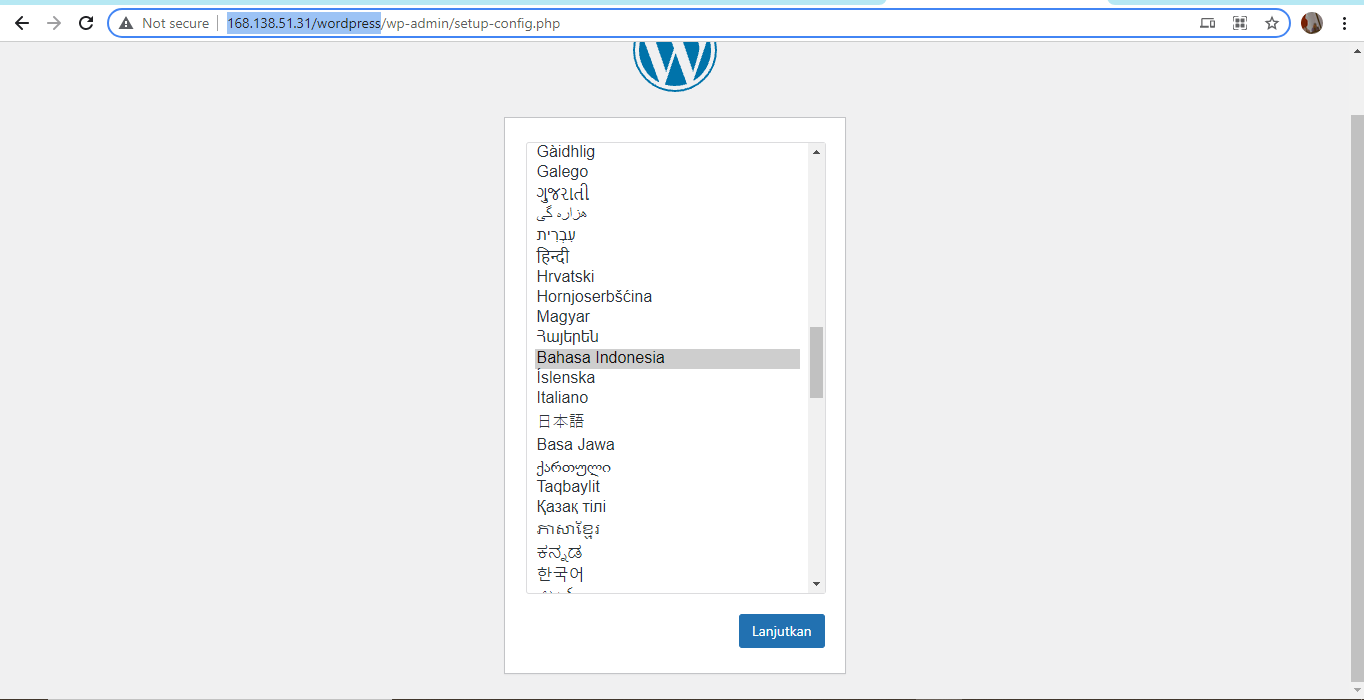
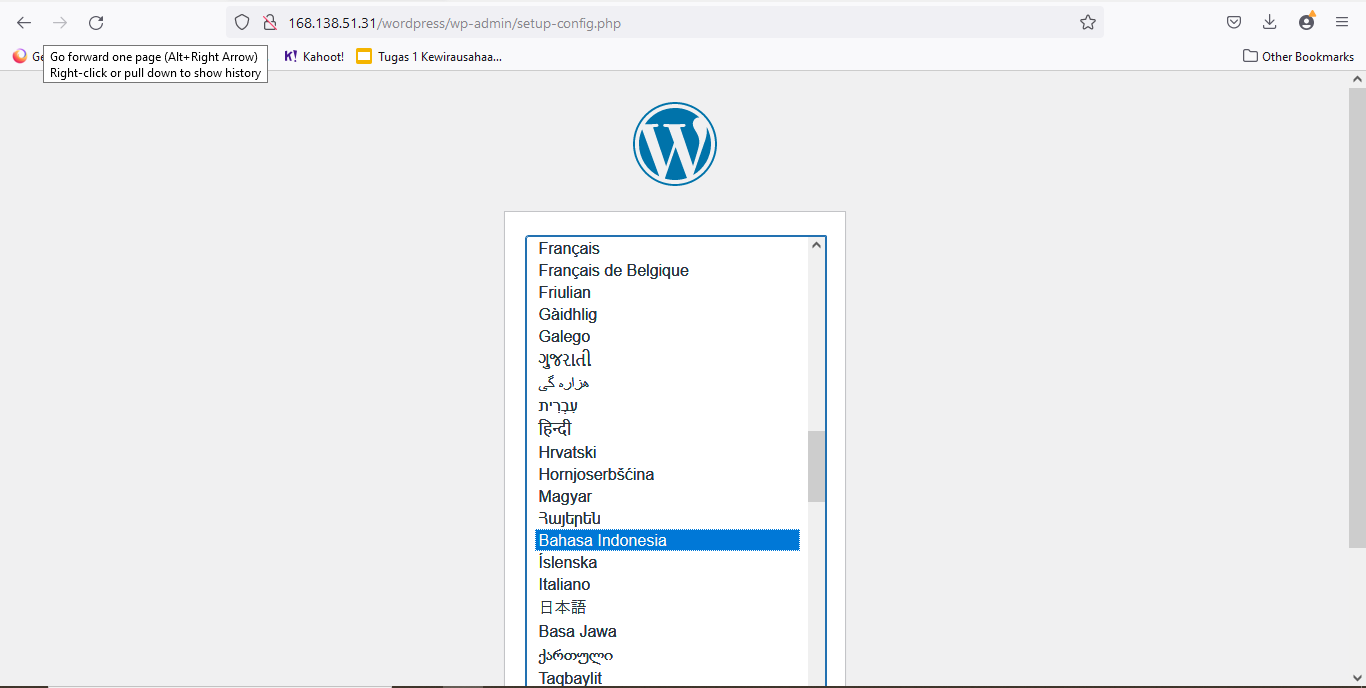
Praktikum 5 - Install MySQL

diff --git a/docs/05_install_mysql/05.md b/docs/05_install_mysql/05.md
@@ -84,7 +84,18 @@ Berikut ini adalah langkah - langkah yang dilakukan untuk menginstall MySQL mela
 
 25. Selanjutnya, kita akan melakukan proses Intalasi Wordpress melalui browser(http://168.138.51.31/wordpress). Berikut untuk step - stepnya.
 #
-1. Kita harus memilih terlebih dahulu bahasa untuk digunakan di dalam Dashboard Wordpress. 
+1. Kita harus memilih terlebih dahulu bahasa untuk digunakan di dalam Dashboard Wordpress. <br><br>
+![Screenshot Langkah24](img/langkah30.png) <br><br>
+2. Kemudian, kita coba melakukan pengisian data untuk membuat table. <br><br>
+![Screenshot Langkah25](img/langkah31.png) <br><br>
+3. Setelah itu klik next, maka Wordpress siap diinstall. <br><br>
+![Screenshot Langkah26](img/langkah32.png) <br><br>
+4. Kita lanjutkan dengan pengisian data Judul Site, Password dan Email.<br><br>
+![Screenshot Langkah27](img/langkah33.png) <br><br>
+![Screenshot Langkah28](img/langkah34.png) <br><br>
+5. Berikut untuk tampilan Wordpress yang berhasil tersinstall.<br><br>
+![Screenshot Langkah29](img/hasil.png) <br><br>
+
 
 #
 
